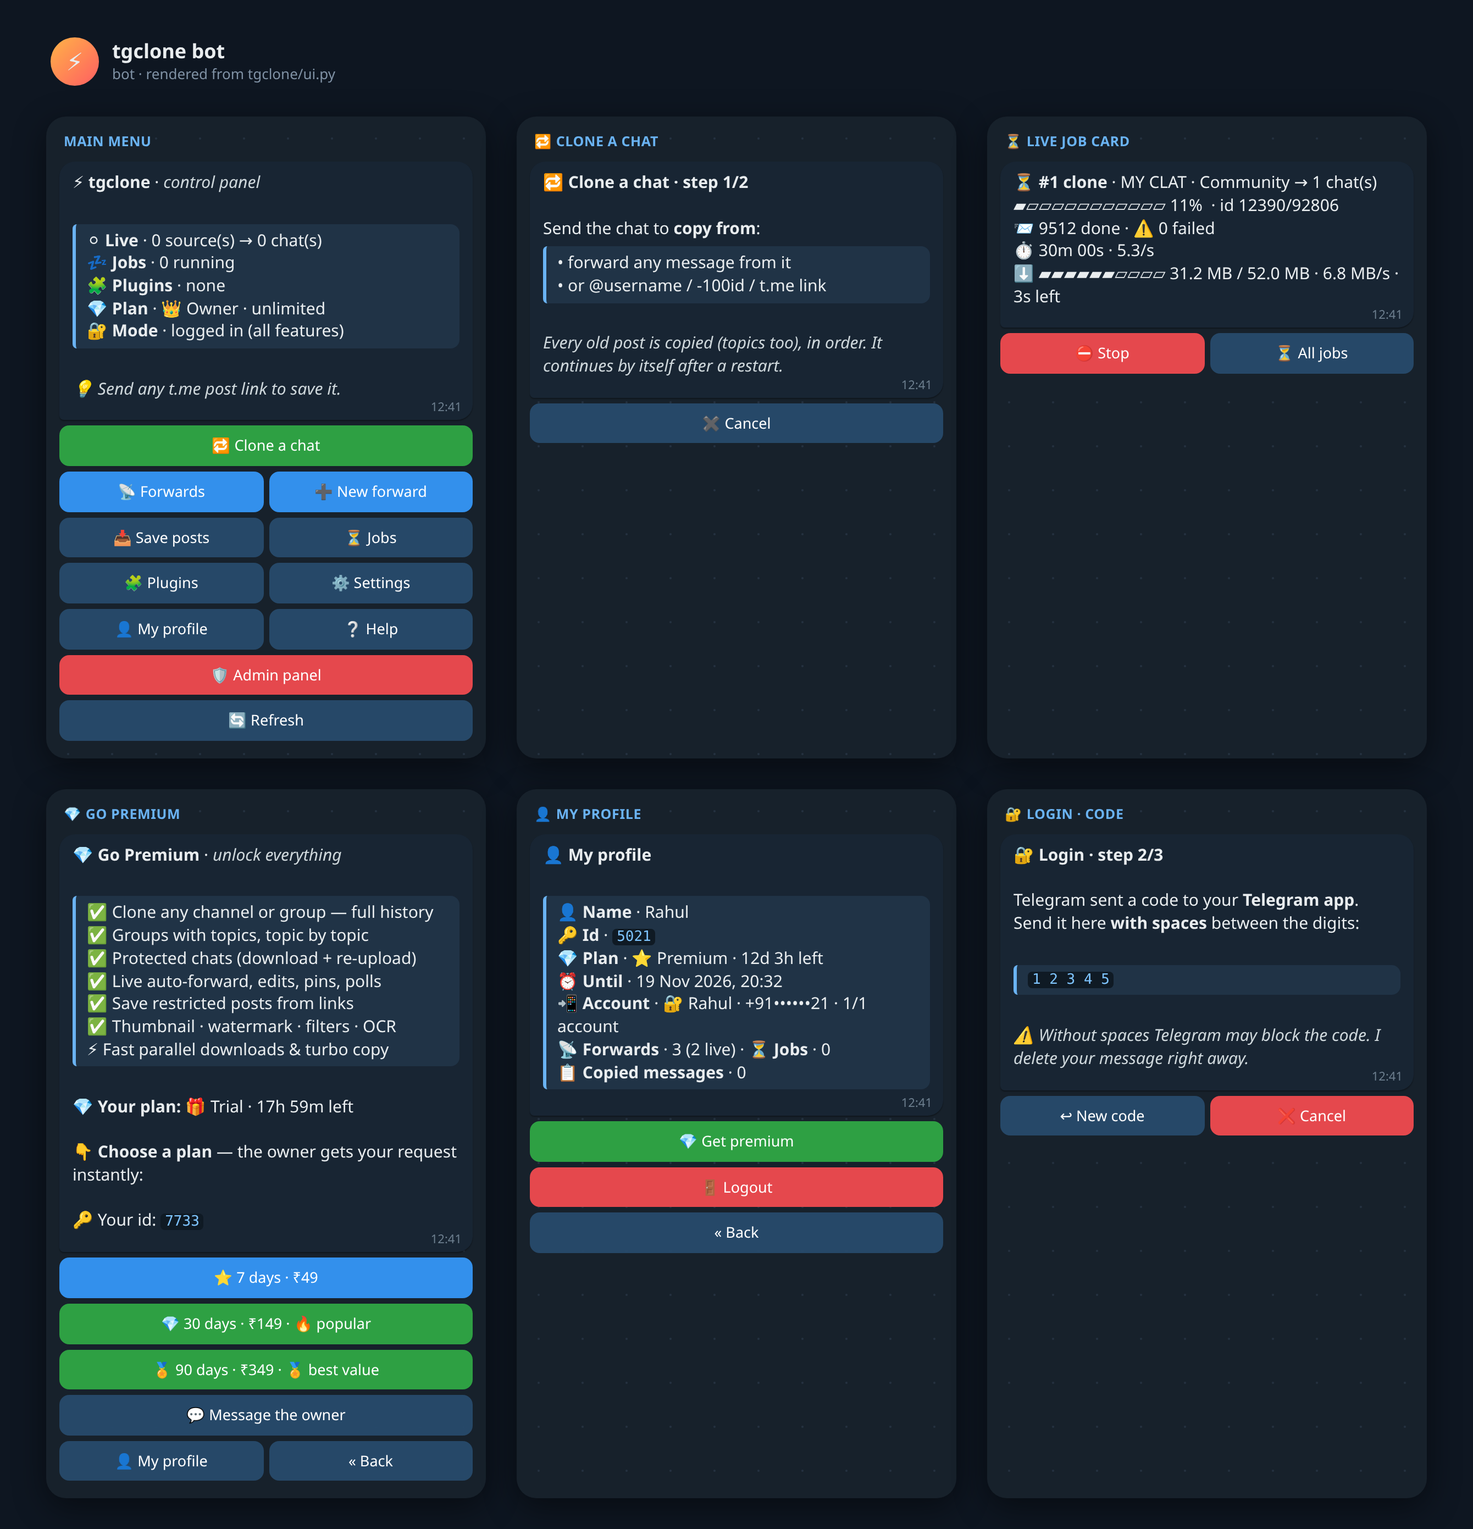
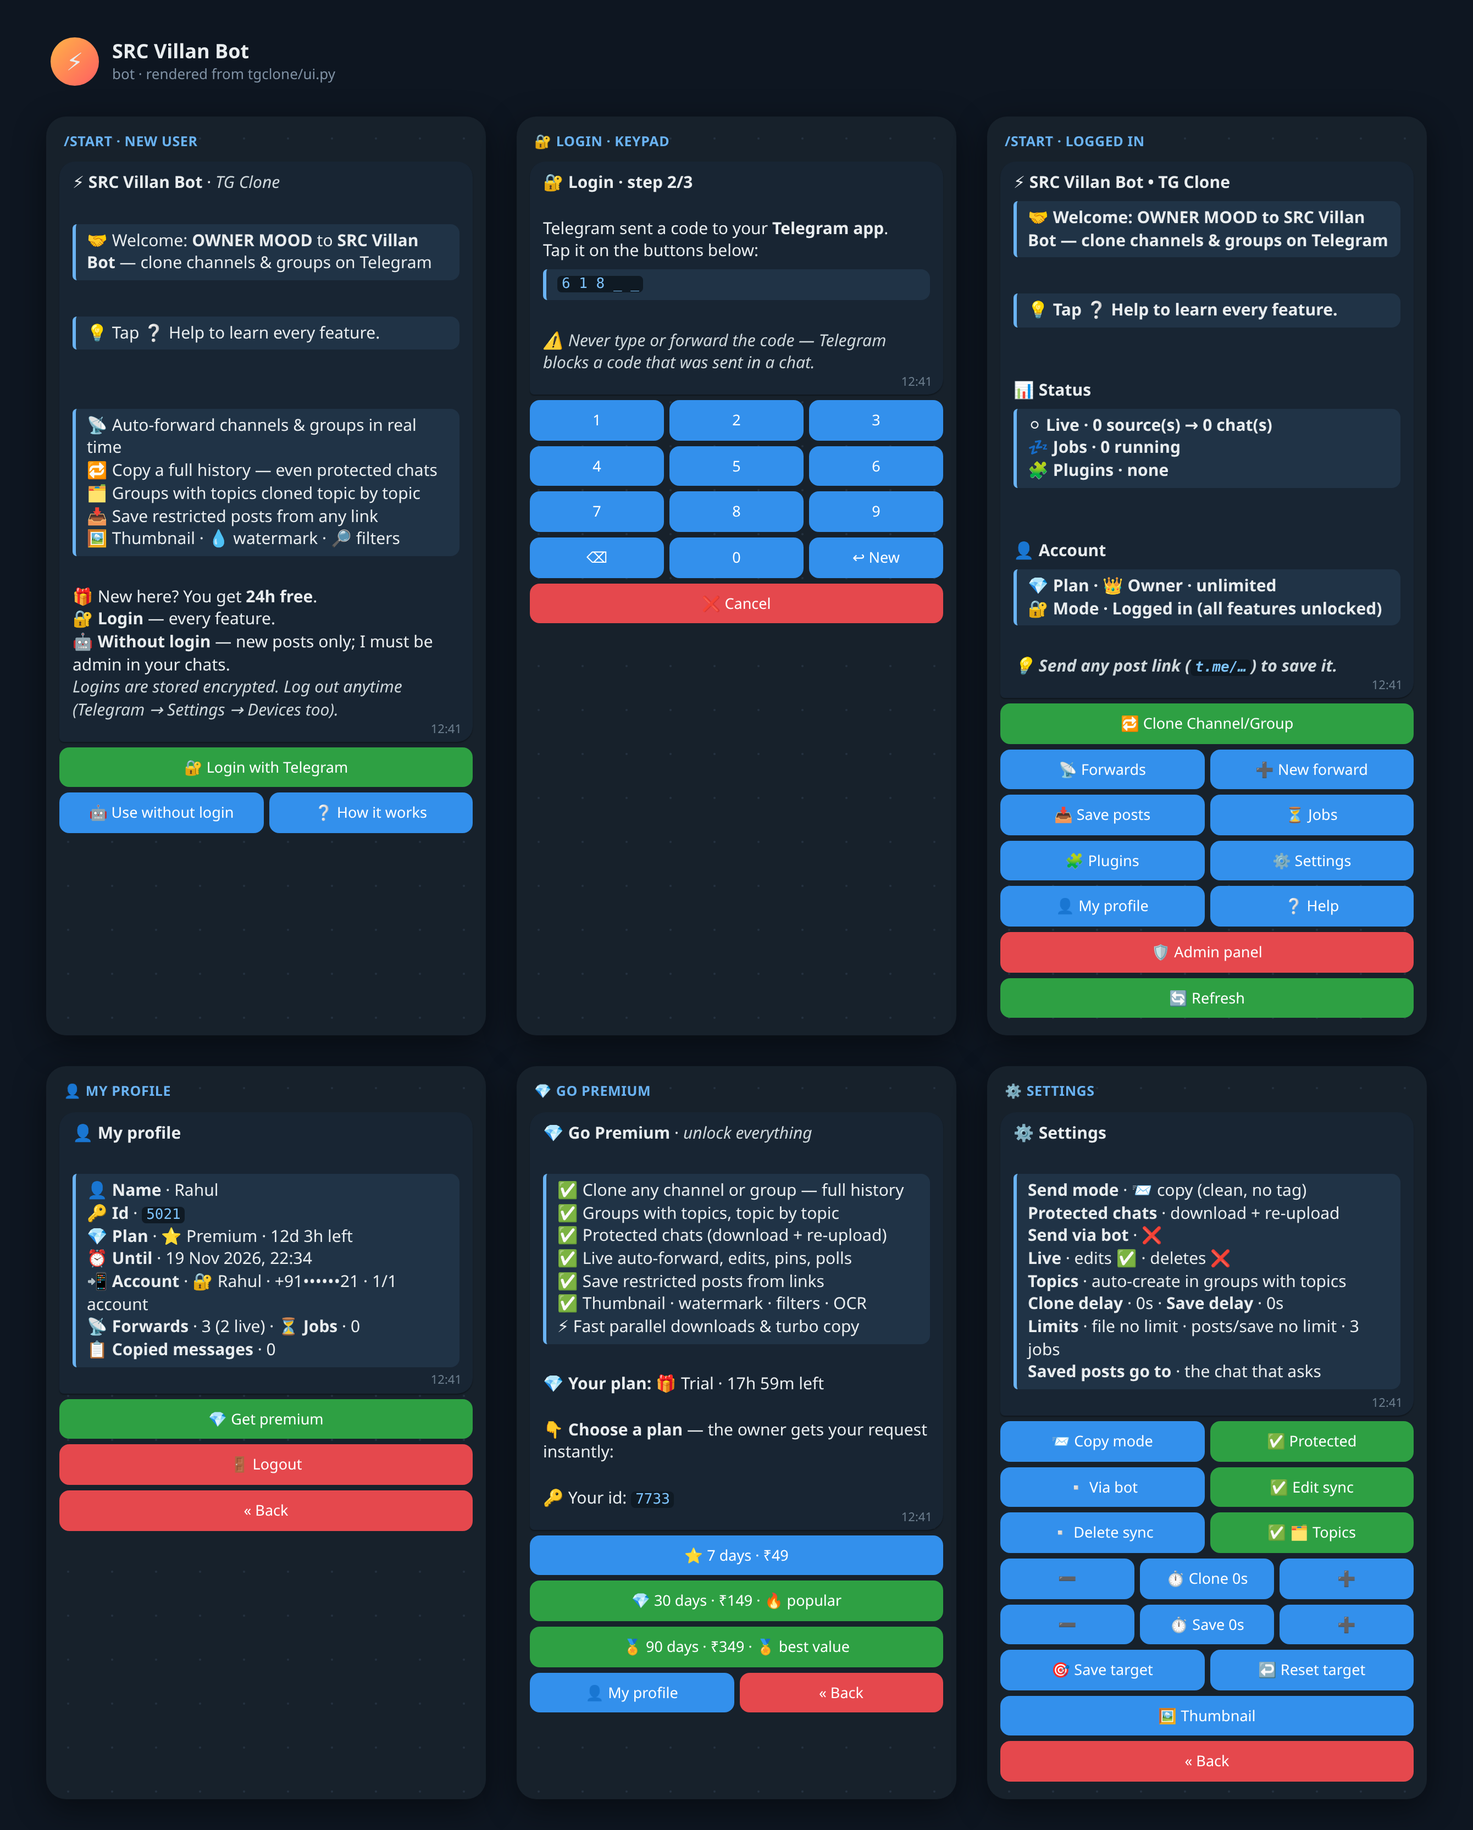
Start text is the whole welcome (never cut), bot name in header; docs and screenshots refreshed
- start text: no 900-char HTML cut (it broke emoji/quote tags); max 3500 visible chars, clear error
- own start text replaces the default welcome (no repeated feature list); default header uses the bot name
- long welcome: photo on top, text + buttons below
- README / Ubuntu guide: keypad login, live stats, folder blocks, connection fallback, run without tmux
- screenshots regenerated from current ui.py; outdated third one removed

Claude-Session: https://claude.ai/code/session_01UdNEJDwnAuzPV57WuQWnb4

diff --git a/tgclone/hub.py b/tgclone/hub.py
@@ -53,6 +53,7 @@ BOT_COMMANDS = {"start": "Open the control panel", "profile": "Plan, account, lo
 OWNER_COMMANDS = {**BOT_COMMANDS, "admin": "🛡 Admin panel", "addpremium": "user days",
                   "rmpremium": "user", "block": "chat / link / folder", "unblock": "chat"}
 PHONE_RE = re.compile(r"^\+?\d[\d\s-]{6,16}\d$")
+START_TEXT_MAX = 3500  # visible characters of the owner's start text (message limit 4096)
 FOLDER_RE = re.compile(r"(?:t\.me|telegram\.me)/addlist/([\w-]+)")
 INVITE_RE = re.compile(r"(?:t\.me|telegram\.me)/(?:\+|joinchat/)([\w-]+)")
 IMG_URL_RE = re.compile(r"^https://\S+$")
@@ -564,16 +565,22 @@ class Hub:
         """/start: big photo on top (if the owner set one) with the screen as caption."""
         photo = self.settings.start_photo
         text, buttons = screen
-        if photo and len(ui.strip_tags(text)) <= 1000:
+        if photo:
+            fits = len(ui.strip_tags(text)) <= 1000  # Telegram caption limit (1024)
             try:
                 msg = await self.bot.send_file(event.chat_id, self._start_media or photo,
-                                               caption=text, buttons=buttons, parse_mode="html")
+                                               caption=text if fits else None,
+                                               buttons=buttons if fits else None, parse_mode="html")
                 if self._start_media is None and getattr(msg, "media", None) is not None:
                     self._start_media = msg.media
-                return
+                if fits:
+                    return
             except Exception as e:
                 log.warning("Start photo failed (%s) - sending text only", e)
-        await self._show(event, screen)
+        await self._show(event, screen)  # long text: photo above, text + buttons below
+
+    def _welcome_kw(self) -> dict:
+        return {"custom": bool(self.settings.start_text), "bot_name": getattr(self, "bot_name", "")}
 
     # ============================================================ routing
     def register(self) -> None:
@@ -692,7 +699,7 @@ class Hub:
         acc = self.access(event.sender_id)
         screen = ui.welcome(self.settings.trial_hours if self.settings.premium_enabled else 0,
                             owner_only=acc == "private", pending=acc == "pending",
-                            intro=await self.start_intro(event))
+                            intro=await self.start_intro(event), **self._welcome_kw())
         if edit:
             await self._show(event, screen, edit=True)
         else:
@@ -810,12 +817,17 @@ class Hub:
                     html_text.format(name="", first="", bot="", id="", plan="")
                 except (KeyError, IndexError, ValueError) as e:
                     raise ValueError(f"Unknown placeholder {e}. Use {{name}} {{bot}} {{plan}} {{id}}")
-                self.settings.start_text = html_text[:900]
+                visible = len(ui.strip_tags(html_text))
+                if visible > START_TEXT_MAX:  # never cut HTML: a cut emoji/quote tag broke the text
+                    raise ValueError(f"Start text is too long ({visible} characters, max {START_TEXT_MAX}). "
+                                     "Make it shorter and send again.")
+                self.settings.start_text = html_text
             self.acc.save_settings(self.settings)
             self.admin_wait = None
             await event.respond("✅ Start text saved. Preview:")
             return await self.send_start(event, ui.welcome(self.settings.trial_hours,
-                                                           intro=await self.start_intro(event)))
+                                                           intro=await self.start_intro(event),
+                                                           **self._welcome_kw()))
         if kind in ("plans", "pay"):
             text = (msg.raw_text or "").strip()
             clear = text == "-"
@@ -846,7 +858,8 @@ class Hub:
             self.acc.save_settings(self.settings)
             self.admin_wait = None
             await event.respond("✅ Start photo saved. Preview:")
-            return await self.send_start(event, ui.welcome(self.settings.trial_hours))
+            return await self.send_start(event, ui.welcome(self.settings.trial_hours,
+                                                           **self._welcome_kw()))
 
     async def hub_callback(self, event) -> None:
         parts = event.data.decode().split(":")

diff --git a/tgclone/ui.py b/tgclone/ui.py
@@ -516,9 +516,24 @@ def plan_label(st: dict) -> str:
 
 # ------------------------------------------------------------------ user side
 def welcome(trial_hours: int = 24, owner_only: bool = False, pending: bool = False,
-            intro: str = "") -> Screen:
-    text = (
-        "<b>⚡ tgclone</b> · <i>Telegram cloner bot</i>\n\n" + (f"{intro}\n\n" if intro else "") + "<blockquote>"
+            intro: str = "", custom: bool = False, bot_name: str = "") -> Screen:
+    """/start for new users. custom=True: the owner's own start text is the whole message."""
+    if custom and intro:
+        text = intro
+    else:
+        text = _default_welcome(trial_hours, intro, bot_name)
+    if owner_only:
+        return text + "\n\n🔒 This bot is private.", None
+    if pending:
+        return text + "\n\n⏳ Your access request is waiting for the owner.", None
+    return text, [[B("🔐 Login with Telegram", "lg", "success")],
+                  [B("🤖 Use without login", "bm"), B("❔ How it works", "hw")]]
+
+
+def _default_welcome(trial_hours: int, intro: str, bot_name: str) -> str:
+    return (
+        f"<b>⚡ {esc(bot_name or 'SRC Villan Bot')}</b> · <i>TG Clone</i>\n\n"
+        + (f"{intro}\n\n" if intro else "") + "<blockquote>"
         "📡 Auto-forward channels & groups in real time\n"
         "🔁 Copy a full history — even protected chats\n"
         "🗂 Groups with topics cloned topic by topic\n"
@@ -529,12 +544,6 @@ def welcome(trial_hours: int = 24, owner_only: bool = False, pending: bool = Fal
         "🤖 <b>Without login</b> — new posts only; I must be admin in your chats.\n"
         "<i>Logins are stored encrypted. Log out anytime (Telegram → Settings → Devices too).</i>"
     )
-    if owner_only:
-        return text + "\n\n🔒 This bot is private.", None
-    if pending:
-        return text + "\n\n⏳ Your access request is waiting for the owner.", None
-    return text, [[B("🔐 Login with Telegram", "lg", "success")],
-                  [B("🤖 Use without login", "bm"), B("❔ How it works", "hw")]]
 
 
 HOW = """<b>❔ How it works</b>
@@ -946,7 +955,8 @@ def admin_prompt(kind: str) -> Screen:
         "premium": "<b>➕ Give premium</b>\n\nSend <code>user_id days</code> or <code>@username days</code>.\n"
                    "Example: <code>5021 30</code>\n<i>Days are added on top of time left.</i>",
         "start": "<b>✏ Start text</b>\n\nSend the message users see on /start (under the start photo). "
-                 "Bold, quotes, premium emoji — your formatting is kept.\n<blockquote>"
+                 "Bold, quotes, premium emoji — your formatting is kept. It becomes the <b>whole</b> "
+                 "welcome message for new users (max 3500 characters).\n<blockquote>"
                  "<code>{name}</code> user's name · <code>{bot}</code> bot name · "
                  "<code>{plan}</code> their plan · <code>{id}</code> their id</blockquote>\n"
                  "Example: <code>🤝 Welcome {name} to {bot}!</code>\nSend <code>-</code> for the default.",

diff --git a/tests/test_admin_plans_pins.py b/tests/test_admin_plans_pins.py
@@ -288,9 +288,16 @@ def test_start_photo_set_and_shown(hubenv):
     assert hub.settings.start_photo.endswith("start_photo.jpg") and hub.acc.settings().start_photo
     say(hub, "/start", 9)
     last = hub.bot.sent[-1]
-    assert last[0] == 9 and len(last) == 4 and "tgclone" in last[1], "photo with the welcome as caption"
+    assert last[0] == 9 and len(last) == 4 and "TG Clone" in last[1], "photo with the welcome as caption"
     say(hub, "/start", 9)
     assert hub.bot.sent[-1][3] == "UPLOADED", "uploaded once, then reused"
+    hub.settings.start_text = "Welcome {name}! " + "More text here. " * 80  # too long for a caption
+    n = len(hub.bot.sent)
+    ev = say(hub, "/start", 9)
+    photo = hub.bot.sent[n]
+    assert photo[1] is None and photo[2] is None, "long text: photo alone on top"
+    assert "More text here" in ev.out[-1][0] and ev.out[-1][1], "then the text with the buttons"
+    hub.settings.start_text = ""
     press(hub, "aps", OWNER)
     say(hub, "https://example.com/banner.jpg", OWNER)
     assert hub.settings.start_photo == "https://example.com/banner.jpg"

diff --git a/tests/test_speed_polls_premium.py b/tests/test_speed_polls_premium.py
@@ -554,6 +554,14 @@ def test_start_text_and_premium_jobs(hubenv):
     ev = say(hub, "/start", 9)
     text = ev.out[-1][0]
     assert 'Hello <a href="tg://user?id=9">User9</a>' in text and hub.bot_name in text
+    assert "Copy a full history" not in text, "own start text = the whole welcome, no default list after it"
+    long = "🤝 Hi {name}. " + "Line of the welcome text with details. " * 25  # > 900 characters
+    press(hub, "ast", OWNER)
+    say(hub, long, OWNER)
+    assert hub.settings.start_text == long.strip(), "never cut (a cut tag broke the message)"
+    press(hub, "ast", OWNER)
+    ev = say(hub, "x" * 3600, OWNER)
+    assert "too long" in ev.out[-1][0] and hub.settings.start_text == long.strip()
     assert hub.settings.user_max_jobs == 1 and hub.settings.premium_max_jobs == 3
     press(hub, "adp3:+", OWNER)
     assert hub.settings.premium_max_jobs == 4

diff --git a/tgclone/__init__.py b/tgclone/__init__.py
@@ -4,4 +4,4 @@ Merged from: tgcf (live/past/plugins/bot), Telethon-Channel-Clone (history copy)
 and clonechat (protected-content clone, resume, type filter).
 """
 
-__version__ = "5.4.1"
+__version__ = "5.4.2"

diff --git a/README.md b/README.md
@@ -4,9 +4,8 @@ A Telegram cloner bot built on Telethon. Users work **inside Telegram only**: th
 
 It was built by merging **tgcf**, **Telethon-Channel-Clone**, **clonechat** and **Save-Restricted-Content-Bot v2/v3** into one codebase. Left out on purpose: payment / redeem code, ad shortener, `/eval` (remote code execution), speedtest, broadcast, yt-dlp, MongoDB, Dropbox-hosted pyrogram forks and other unverifiable dependencies, and obfuscated promo strings.
 
-![User screens: menu, clone, job card, premium, profile, login](docs/screenshots/tgclone_screens_1.png)
-![Owner screens: admin panel, premium, user, settings, thumbnail, plugins](docs/screenshots/tgclone_screens_2.png)
-![Start screen, colours, limits, start text](docs/screenshots/tgclone_screens_3.png)
+![User screens: welcome, keypad login, menu, profile, premium, settings](docs/screenshots/tgclone_screens_1.png)
+![Owner screens: admin panel, live bot stats, blocked chats and folders, premium users, start text](docs/screenshots/tgclone_screens_2.png)
 
 ## Quick start (owner, once)
 
@@ -16,14 +15,15 @@ Full Hinglish guide with troubleshooting: **[docs/UBUNTU_SETUP.md](docs/UBUNTU_S
 git clone -b ccr-1f6db1cf-flau3n https://github.com/Ownermood/SRC-Villan-.git && cd SRC-Villan-
 bash scripts/install_ubuntu.sh --service   # python, ffmpeg, tesseract, .venv (+ systemd if available)
 .venv/bin/python -m tgclone setup          # asks API_ID, API_HASH, BOT_TOKEN, OWNER_ID -> .env
-tmux new -s tgclone 'bash scripts/run.sh'  # or: sudo systemctl start tgclone
+sudo systemctl start tgclone               # VPS (24x7)  ·  WSL / no systemd: bash scripts/run.sh
 ```
 Then open the bot and send `/start`. `scripts/run.sh` restarts the bot after a crash and prints why it stopped.
 Update: `git pull && .venv/bin/pip install -r requirements.txt -q`, then restart. Running jobs continue by themselves.
+Moving to a VPS: copy `.env` and `data/` (without `data/downloads/`), and never run the bot in two places at once.
 
 ## For users (everything in Telegram)
 
-1. `/start` → **🔐 Login with Telegram** → 📲 share your number → tap the code on the **keypad** (never type it: Telegram blocks a code sent in a chat) → 2FA password if you have one (deleted at once).
+1. `/start` → **🔐 Login with Telegram** → 📲 share your number → tap the code on the **🔢 keypad** (never type it: Telegram blocks a code sent in a chat) → 2FA password if you have one (deleted at once).
 2. **🔁 Clone Channel/Group** → send the source (forward a message from it, or `@username` / `-100id` / link) → send the destination → the clone starts.
 3. **➕ New forward** does the same for live auto-forwarding of new posts.
 4. Send any post link (`t.me/c/123/45`, or a range `t.me/chan/10-50`) to save it.
@@ -35,7 +35,7 @@ Update: `git pull && .venv/bin/pip install -r requirements.txt -q`, then restart
 **Cloning & speed**
 - Full history, oldest first, albums kept together, replies linked, pins copied (the "pinned a message" notice is deleted at once), polls and quizzes copied.
 - **Turbo copy**: plain posts are copied server-side, **100 per request**, with no download and no "Forwarded from" tag.
-- **Protected chats**: each file is downloaded and re-uploaded, keeping its thumbnail, name and duration. Big files (10 MB and up) use **4 connections × 4 parts in flight** (512 KB parts). The next files download while the current one uploads, and several destinations are sent at the same time (the file is downloaded once).
+- **Protected chats**: each file is downloaded and re-uploaded, keeping its thumbnail, name and duration. Files move in 512 KB parts with 8 parts in flight; big files (10 MB and up) try **4 extra connections**. If Telegram cuts them on your network, the same file finishes on one connection and extra connections pause (10 min → 7 days, remembered across restarts). The next files download while the current one uploads, and several destinations are sent at the same time (the file is downloaded once). Leftover temp files are cleared at every start.
 - **Fast restart**: the bot answers at once, users load in parallel, the chats a user works with are remembered (no full dialog download), and pending jobs resume within a second.
 - No fixed pause between posts. If Telegram asks to wait (FloodWait), the bot waits and continues.
 - **Resumable**: progress is stored. A stopped, crashed or restarted clone continues by itself, and nothing is sent twice.
@@ -49,9 +49,10 @@ Update: `git pull && .venv/bin/pip install -r requirements.txt -q`, then restart
 **Plans & admin (owner only, red 🛡 Admin panel button)**
 - Every new user gets a free trial (default 24h). **💎 Go Premium** shows the plans and prices you set (`7=₹49, 30=₹149, …`). A tap sends you a request with a one-tap **✅ Grant** button, and the user sees your payment info.
 - Users: approve / ban / force logout, add 1/7/30 days, remove premium. You can also use `/addpremium <id|@user> <days>` and `/rmpremium <id>`.
-- 🚫 Blocked chats: block by folder link `t.me/addlist/…`, `@username`, `t.me/c/…`, invite `t.me/+…` (only once you have joined it), `-100…` id or a forwarded message.
+- 📊 **Bot stats · live**: users, plans, jobs and transfer speed right now, totals since start, CPU / RAM / disk. Refreshes itself every 5 s for 2 min.
+- 🚫 Blocked chats: block by folder link `t.me/addlist/…`, `@username`, `t.me/c/…`, invite `t.me/+…` (only once you have joined it), `-100…` id or a forwarded message. A folder shows as one button with its name; inside are its chats and a red **Remove whole folder**. The owner is never blocked.
 - Access mode (open / approval / only me). Jobs at once: free trial 1 and premium 3 (e.g. a channel, a group and a topics group together), both adjustable.
-- Start screen: start photo plus your own ✏ start text (`{name}` `{bot}` `{plan}` `{id}`; your bold, quotes and premium emoji are kept). Also ⭐ premium emoji and 🔍 premium emoji self-test.
+- Start screen: start photo plus your own ✏ start text, which becomes the whole welcome message (`{name}` `{bot}` `{plan}` `{id}`; bold, quotes and premium emoji kept; up to 3500 characters, a long text goes under the photo). Also ⭐ premium emoji and 🔍 premium emoji self-test.
 
 **Every Telegram style is copied**: quote and expandable quote, bold, italic, underline, strike, spoiler, code, pre, links, mentions and premium emoji, even after caption / replace / style plugins change the text.
 

diff --git a/docs/UBUNTU_SETUP.md b/docs/UBUNTU_SETUP.md
@@ -46,12 +46,12 @@ journalctl -u tgclone -f           # live logs
 
 **WSL / bina systemd:**
 ```bash
-sudo apt install -y tmux
-tmux new -s tgclone 'bash scripts/run.sh'
+cd ~/SRC-Villan- && bash scripts/run.sh
 ```
 `scripts/run.sh` crash hone par 10 second mein khud restart karta hai aur band hone ki wajah dikhata hai.
 Restart ke baad adhoore clone / save **khud wahin se aage chalte hain**.
-Bahar nikalna: `Ctrl+B` phir `D`. Wapas aana: `tmux attach -t tgclone`.
+Band karna: `Ctrl+C`. Window band ki to bot bhi band — minimize karo.
+Window band karke chalana ho: `nohup bash scripts/run.sh > /dev/null 2>&1 &` (logs: `tail -f data/tgclone.log`).
 
 > WSL par systemd on karna ho: `printf '[boot]\nsystemd=true\n' | sudo tee /etc/wsl.conf`,
 > phir Windows PowerShell mein `wsl --shutdown`, Ubuntu dobara kholo, aur `bash scripts/install_ubuntu.sh --service`.
@@ -115,7 +115,7 @@ Commands (sirf owner): `/admin` · `/addpremium 5021 30` · `/rmpremium 5021` ·
 cd ~/SRC-Villan-
 git pull
 .venv/bin/pip install -r requirements.txt -q
-sudo systemctl restart tgclone        # ya: tmux kill-session -t tgclone; tmux new -s tgclone 'bash scripts/run.sh'
+sudo systemctl restart tgclone        # WSL: chal rahe bot me Ctrl+C, phir: bash scripts/run.sh
 ```
 
 ## Backup
@@ -130,7 +130,10 @@ SECRET_KEY kho gaya to saved logins nahi khulenge — users ko dobara login karn
 | Dikkat | Fix |
 |---|---|
 | `API_ID / API_HASH missing` / `BOT_TOKEN missing` | `.venv/bin/python -m tgclone setup` |
-| Bot jawab nahi deta | `journalctl -u tgclone -f` (ya tmux window) dekho; token sahi hai? |
+| Bot jawab nahi deta | `journalctl -u tgclone -f` (WSL: `tail -f data/tgclone.log`) dekho; token sahi hai? |
+| User: "code expired" / "previously shared" | Code type mat karo — 🔢 keypad se tap karo, ↩ New se naya code |
+| "SESSION_STRING ... not valid" | `.env` me `SESSION_STRING=` khaali karo, bot me `/login` |
+| "Download folder full" | Restart karo — bachi hui temp files start par khud delete hoti hain |
 | User: "code expired / wrong" | Keypad par 🔄 New code. Code sirf buttons se daalo |
 | User: "Wait Ns before a new code" | Telegram ki limit — utna wait karo |
 | "Your login was ended from Telegram" | User ne Devices se session hataya — /login dobara |
